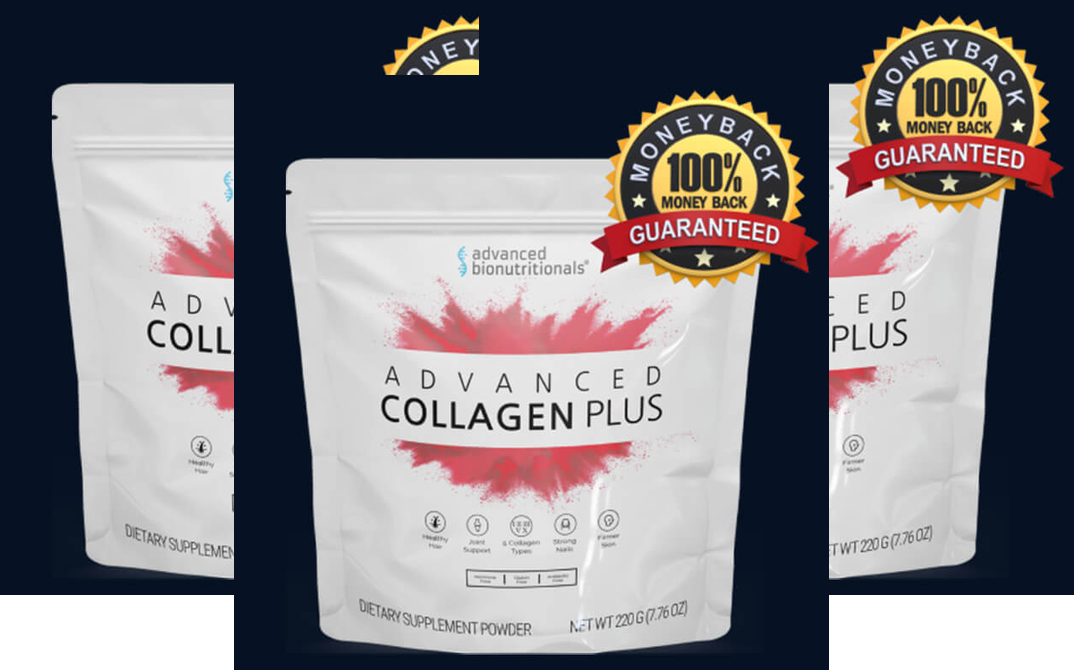
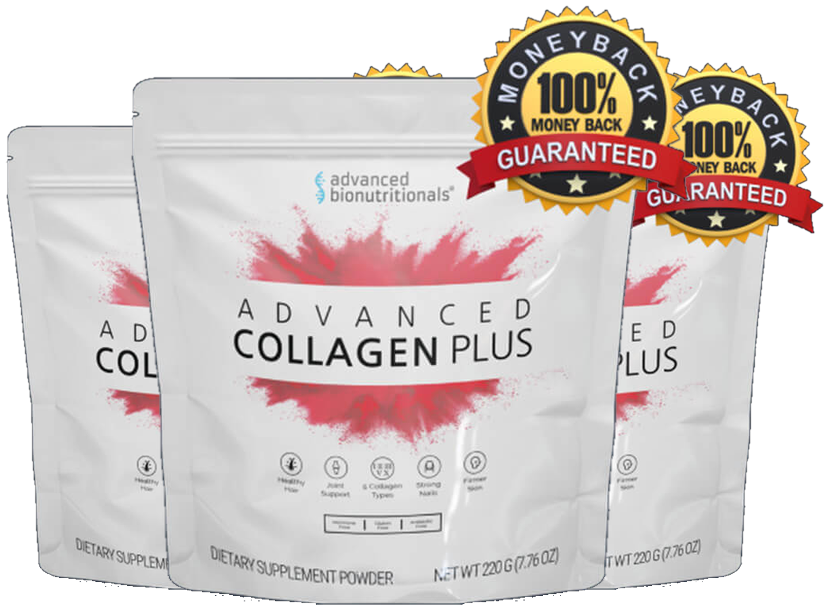
fix: remove black backgrounds from product images and daylight-style pricing tables for CoreVital, Advanced Amino, Advanced Collagen, and Advanced Memory

diff --git a/showcase/advanced-memory/index.html b/showcase/advanced-memory/index.html
@@ -358,56 +358,54 @@
   </section>
 
   <!-- PRICING & BUNDLES TABLE (AUTHENTIC MANUFACTURER PACKAGES) -->
-  <section id="pricing-table" class="py-16 lg:py-24 bg-slate-950 text-white relative">
+  <section id="pricing-table" class="py-16 lg:py-24 bg-white border-t border-indigo-100">
     <div class="max-w-7xl mx-auto px-4 sm:px-6 lg:px-8">
       
       <div class="text-center max-w-3xl mx-auto mb-16">
-        <div class="text-xs font-black uppercase tracking-widest text-amber-400 font-heading mb-2">Official Direct Manufacturer Pricing</div>
-        <h2 class="text-3xl sm:text-5xl font-black text-white font-heading">Select Your Advanced Memory Package</h2>
-        <p class="text-sm sm:text-base text-slate-300 mt-4">
-          Every order is backed by Advanced Bionutritionals’ 100% money-back 90-day empty bottle guarantee. Multi-bottle orders include <strong>FREE U.S. Shipping</strong>.
-        </p>
+        <h2 class="text-xs font-bold text-indigo-800 tracking-widest uppercase mb-2">Direct Manufacturer Pricing</h2>
+        <p class="text-3xl sm:text-5xl font-black text-slate-900 font-heading tracking-tight">CHOOSE YOUR ADVANCED MEMORY BUNDLE</p>
+        <p class="mt-4 text-slate-600 text-base sm:text-lg">Save with multi-bottle discounts. Every order is backed by Advanced Bionutritionals’ unconditional 90-day 100% empty bottle money-back guarantee.</p>
       </div>
 
-      <div class="grid grid-cols-1 lg:grid-cols-3 gap-8 items-stretch">
+      <div class="grid grid-cols-1 lg:grid-cols-3 gap-8 items-stretch max-w-6xl mx-auto">
         
         <!-- PACKAGE 1: 1 BOTTLE (30-DAY SUPPLY) -->
-        <div class="bg-slate-900 rounded-3xl p-8 border border-slate-800 flex flex-col justify-between hover:border-indigo-500/50 transition text-center shadow-lg">
+        <div class="bg-[#f8fafc] rounded-3xl p-8 border border-slate-200 flex flex-col justify-between hover:border-indigo-400 transition text-center shadow-sm">
           <div>
-            <div class="text-xs font-black text-slate-400 uppercase tracking-wider font-heading mb-1">Introductory Trial</div>
-            <h3 class="text-2xl font-black text-white font-heading">1 BOTTLE</h3>
-            <p class="text-xs text-slate-400 font-medium mb-4">30-Day Supply (60 Capsules)</p>
+            <div class="text-xs font-black text-slate-500 uppercase tracking-wider font-heading mb-1">Introductory Trial</div>
+            <h3 class="text-2xl font-black text-slate-900 font-heading">1 BOTTLE</h3>
+            <p class="text-xs text-slate-500 font-medium mb-4">30-Day Supply (60 Capsules)</p>
 
-            <div class="my-4 bg-slate-800/60 rounded-2xl p-4 border border-slate-700/50">
-              <img src="/showcase/advanced-memory/images/1-bottle.png" alt="Advanced Memory Formula 1 Bottle" class="h-56 mx-auto object-contain drop-shadow-xl" />
+            <div class="my-4 bg-white rounded-2xl p-2 border border-slate-100 shadow-inner overflow-hidden">
+              <img src="/showcase/advanced-memory/images/1-bottle.png" alt="Advanced Memory Formula 1 Bottle" class="h-56 mx-auto object-contain drop-shadow" />
             </div>
 
             <div class="my-4">
               <div class="flex items-center justify-center gap-1">
-                <span class="text-2xl font-black text-white">$</span>
-                <span class="text-6xl font-black text-white font-heading">49</span>
-                <span class="text-2xl font-black text-white font-heading">.95</span>
+                <span class="text-2xl font-black text-slate-900">$</span>
+                <span class="text-5xl font-black text-slate-900 font-heading">49</span>
+                <span class="text-2xl font-black text-slate-900 font-heading">.95</span>
               </div>
-              <p class="text-xs text-slate-400 font-semibold mt-1">Standard Shipping Applies</p>
+              <p class="text-xs text-slate-500 font-medium mt-1">Total: $49.95 + Standard Shipping</p>
             </div>
 
-            <ul class="text-xs text-slate-300 space-y-2.5 text-left border-t border-slate-800 pt-6 my-6">
+            <ul class="text-xs text-slate-600 space-y-2.5 text-left border-t border-slate-200 pt-6 my-6">
               <li class="flex items-center gap-2">
-                <svg class="w-4 h-4 text-indigo-400 shrink-0" fill="currentColor" viewBox="0 0 20 20"><path fill-rule="evenodd" d="M16.707 5.293a1 1 0 010 1.414l-8 8a1 1 0 01-1.414 0l-4-4a1 1 0 011.414-1.414L8 12.586l7.293-7.293a1 1 0 011.414 0z" clip-rule="evenodd"></path></svg>
+                <svg class="w-4 h-4 text-indigo-600 shrink-0" fill="currentColor" viewBox="0 0 20 20"><path fill-rule="evenodd" d="M16.707 5.293a1 1 0 010 1.414l-8 8a1 1 0 01-1.414 0l-4-4a1 1 0 011.414-1.414L8 12.586l7.293-7.293a1 1 0 011.414 0z" clip-rule="evenodd"></path></svg>
                 <span>Full 30-Day Cognitive Reset</span>
               </li>
               <li class="flex items-center gap-2">
-                <svg class="w-4 h-4 text-indigo-400 shrink-0" fill="currentColor" viewBox="0 0 20 20"><path fill-rule="evenodd" d="M16.707 5.293a1 1 0 010 1.414l-8 8a1 1 0 01-1.414 0l-4-4a1 1 0 011.414-1.414L8 12.586l7.293-7.293a1 1 0 011.414 0z" clip-rule="evenodd"></path></svg>
+                <svg class="w-4 h-4 text-indigo-600 shrink-0" fill="currentColor" viewBox="0 0 20 20"><path fill-rule="evenodd" d="M16.707 5.293a1 1 0 010 1.414l-8 8a1 1 0 01-1.414 0l-4-4a1 1 0 011.414-1.414L8 12.586l7.293-7.293a1 1 0 011.414 0z" clip-rule="evenodd"></path></svg>
                 <span>Standard Shipping</span>
               </li>
               <li class="flex items-center gap-2">
-                <svg class="w-4 h-4 text-indigo-400 shrink-0" fill="currentColor" viewBox="0 0 20 20"><path fill-rule="evenodd" d="M16.707 5.293a1 1 0 010 1.414l-8 8a1 1 0 01-1.414 0l-4-4a1 1 0 011.414-1.414L8 12.586l7.293-7.293a1 1 0 011.414 0z" clip-rule="evenodd"></path></svg>
+                <svg class="w-4 h-4 text-indigo-600 shrink-0" fill="currentColor" viewBox="0 0 20 20"><path fill-rule="evenodd" d="M16.707 5.293a1 1 0 010 1.414l-8 8a1 1 0 01-1.414 0l-4-4a1 1 0 011.414-1.414L8 12.586l7.293-7.293a1 1 0 011.414 0z" clip-rule="evenodd"></path></svg>
                 <span>90-Day 100% Money-Back Guarantee</span>
               </li>
             </ul>
           </div>
 
-          <a href="/go/memory" target="_blank" rel="noopener sponsored" class="w-full inline-block bg-slate-800 hover:bg-slate-700 text-white font-black py-4 rounded-xl text-base font-heading uppercase tracking-wider transition shadow-md">
+          <a href="/go/memory" target="_blank" rel="noopener sponsored" class="w-full inline-block bg-slate-900 hover:bg-slate-800 text-white font-black py-4 rounded-xl text-base font-heading uppercase tracking-wider transition shadow-md">
             Buy Now &rarr;
           </a>
         </div>
@@ -463,47 +461,47 @@
         </div>
 
         <!-- PACKAGE 3: 3 BOTTLES (POPULAR CHOICE) -->
-        <div class="bg-slate-900 rounded-3xl p-8 border border-slate-800 flex flex-col justify-between hover:border-indigo-500/50 transition text-center shadow-lg">
+        <div class="bg-[#f8fafc] rounded-3xl p-8 border border-slate-200 flex flex-col justify-between hover:border-indigo-400 transition text-center shadow-sm">
           <div>
-            <div class="text-xs font-black text-slate-400 uppercase tracking-wider font-heading mb-1">Popular Choice</div>
-            <h3 class="text-2xl font-black text-white font-heading">3 BOTTLES</h3>
-            <p class="text-xs text-slate-400 font-medium mb-4">90-Day Supply (180 Capsules)</p>
+            <div class="text-xs font-black text-slate-500 uppercase tracking-wider font-heading mb-1">Popular Choice</div>
+            <h3 class="text-2xl font-black text-slate-900 font-heading">3 BOTTLES</h3>
+            <p class="text-xs text-slate-500 font-medium mb-4">90-Day Supply (180 Capsules)</p>
 
-            <div class="my-4 bg-slate-800/60 rounded-2xl p-4 border border-slate-700/50">
-              <img src="/showcase/advanced-memory/images/3-bottles.png" alt="Advanced Memory Formula 3 Bottles" class="h-56 mx-auto object-contain drop-shadow-xl" />
+            <div class="my-4 bg-white rounded-2xl p-2 border border-slate-100 shadow-inner overflow-hidden">
+              <img src="/showcase/advanced-memory/images/3-bottles.png" alt="Advanced Memory Formula 3 Bottles" class="h-56 mx-auto object-contain drop-shadow" />
             </div>
 
             <div class="my-4">
               <div class="flex items-center justify-center gap-1">
-                <span class="text-2xl font-black text-white">$</span>
-                <span class="text-6xl font-black text-white font-heading">44</span>
-                <span class="text-2xl font-black text-white font-heading">.95</span>
-                <span class="text-sm font-bold text-slate-400">/bottle</span>
+                <span class="text-2xl font-black text-slate-900">$</span>
+                <span class="text-5xl font-black text-slate-900 font-heading">44</span>
+                <span class="text-2xl font-black text-slate-900 font-heading">.95</span>
+                <span class="text-sm font-bold text-slate-600">/bottle</span>
               </div>
-              <p class="text-xs text-slate-300 font-semibold mt-1">Total: $134.85 &bull; <span class="text-amber-400">FREE U.S. SHIPPING</span></p>
+              <p class="text-xs text-slate-500 font-medium mt-1">Total: $134.85 &bull; <span class="text-indigo-700 font-bold">FREE U.S. SHIPPING</span></p>
             </div>
 
-            <ul class="text-xs text-slate-300 space-y-2.5 text-left border-t border-slate-800 pt-6 my-6">
+            <ul class="text-xs text-slate-600 space-y-2.5 text-left border-t border-slate-200 pt-6 my-6">
               <li class="flex items-center gap-2">
-                <svg class="w-4 h-4 text-indigo-400 shrink-0" fill="currentColor" viewBox="0 0 20 20"><path fill-rule="evenodd" d="M16.707 5.293a1 1 0 010 1.414l-8 8a1 1 0 01-1.414 0l-4-4a1 1 0 011.414-1.414L8 12.586l7.293-7.293a1 1 0 011.414 0z" clip-rule="evenodd"></path></svg>
+                <svg class="w-4 h-4 text-indigo-600 shrink-0" fill="currentColor" viewBox="0 0 20 20"><path fill-rule="evenodd" d="M16.707 5.293a1 1 0 010 1.414l-8 8a1 1 0 01-1.414 0l-4-4a1 1 0 011.414-1.414L8 12.586l7.293-7.293a1 1 0 011.414 0z" clip-rule="evenodd"></path></svg>
                 <span>Full 90-Day Cognitive Renewal</span>
               </li>
               <li class="flex items-center gap-2">
-                <svg class="w-4 h-4 text-indigo-400 shrink-0" fill="currentColor" viewBox="0 0 20 20"><path fill-rule="evenodd" d="M16.707 5.293a1 1 0 010 1.414l-8 8a1 1 0 01-1.414 0l-4-4a1 1 0 011.414-1.414L8 12.586l7.293-7.293a1 1 0 011.414 0z" clip-rule="evenodd"></path></svg>
+                <svg class="w-4 h-4 text-indigo-600 shrink-0" fill="currentColor" viewBox="0 0 20 20"><path fill-rule="evenodd" d="M16.707 5.293a1 1 0 010 1.414l-8 8a1 1 0 01-1.414 0l-4-4a1 1 0 011.414-1.414L8 12.586l7.293-7.293a1 1 0 011.414 0z" clip-rule="evenodd"></path></svg>
                 <span>Save $15.00 Off Retail</span>
               </li>
               <li class="flex items-center gap-2">
-                <svg class="w-4 h-4 text-indigo-400 shrink-0" fill="currentColor" viewBox="0 0 20 20"><path fill-rule="evenodd" d="M16.707 5.293a1 1 0 010 1.414l-8 8a1 1 0 01-1.414 0l-4-4a1 1 0 011.414-1.414L8 12.586l7.293-7.293a1 1 0 011.414 0z" clip-rule="evenodd"></path></svg>
+                <svg class="w-4 h-4 text-indigo-600 shrink-0" fill="currentColor" viewBox="0 0 20 20"><path fill-rule="evenodd" d="M16.707 5.293a1 1 0 010 1.414l-8 8a1 1 0 01-1.414 0l-4-4a1 1 0 011.414-1.414L8 12.586l7.293-7.293a1 1 0 011.414 0z" clip-rule="evenodd"></path></svg>
                 <span>FREE Priority US Shipping</span>
               </li>
               <li class="flex items-center gap-2">
-                <svg class="w-4 h-4 text-indigo-400 shrink-0" fill="currentColor" viewBox="0 0 20 20"><path fill-rule="evenodd" d="M16.707 5.293a1 1 0 010 1.414l-8 8a1 1 0 01-1.414 0l-4-4a1 1 0 011.414-1.414L8 12.586l7.293-7.293a1 1 0 011.414 0z" clip-rule="evenodd"></path></svg>
+                <svg class="w-4 h-4 text-indigo-600 shrink-0" fill="currentColor" viewBox="0 0 20 20"><path fill-rule="evenodd" d="M16.707 5.293a1 1 0 010 1.414l-8 8a1 1 0 01-1.414 0l-4-4a1 1 0 011.414-1.414L8 12.586l7.293-7.293a1 1 0 011.414 0z" clip-rule="evenodd"></path></svg>
                 <span>90-Day 100% Money-Back Guarantee</span>
               </li>
             </ul>
           </div>
 
-          <a href="/go/memory" target="_blank" rel="noopener sponsored" class="w-full inline-block bg-slate-800 hover:bg-slate-700 text-white font-black py-4 rounded-xl text-base font-heading uppercase tracking-wider transition shadow-md">
+          <a href="/go/memory" target="_blank" rel="noopener sponsored" class="w-full inline-block bg-slate-900 hover:bg-slate-800 text-white font-black py-4 rounded-xl text-base font-heading uppercase tracking-wider transition shadow-md">
             Claim 3 Bottles &rarr;
           </a>
         </div>
